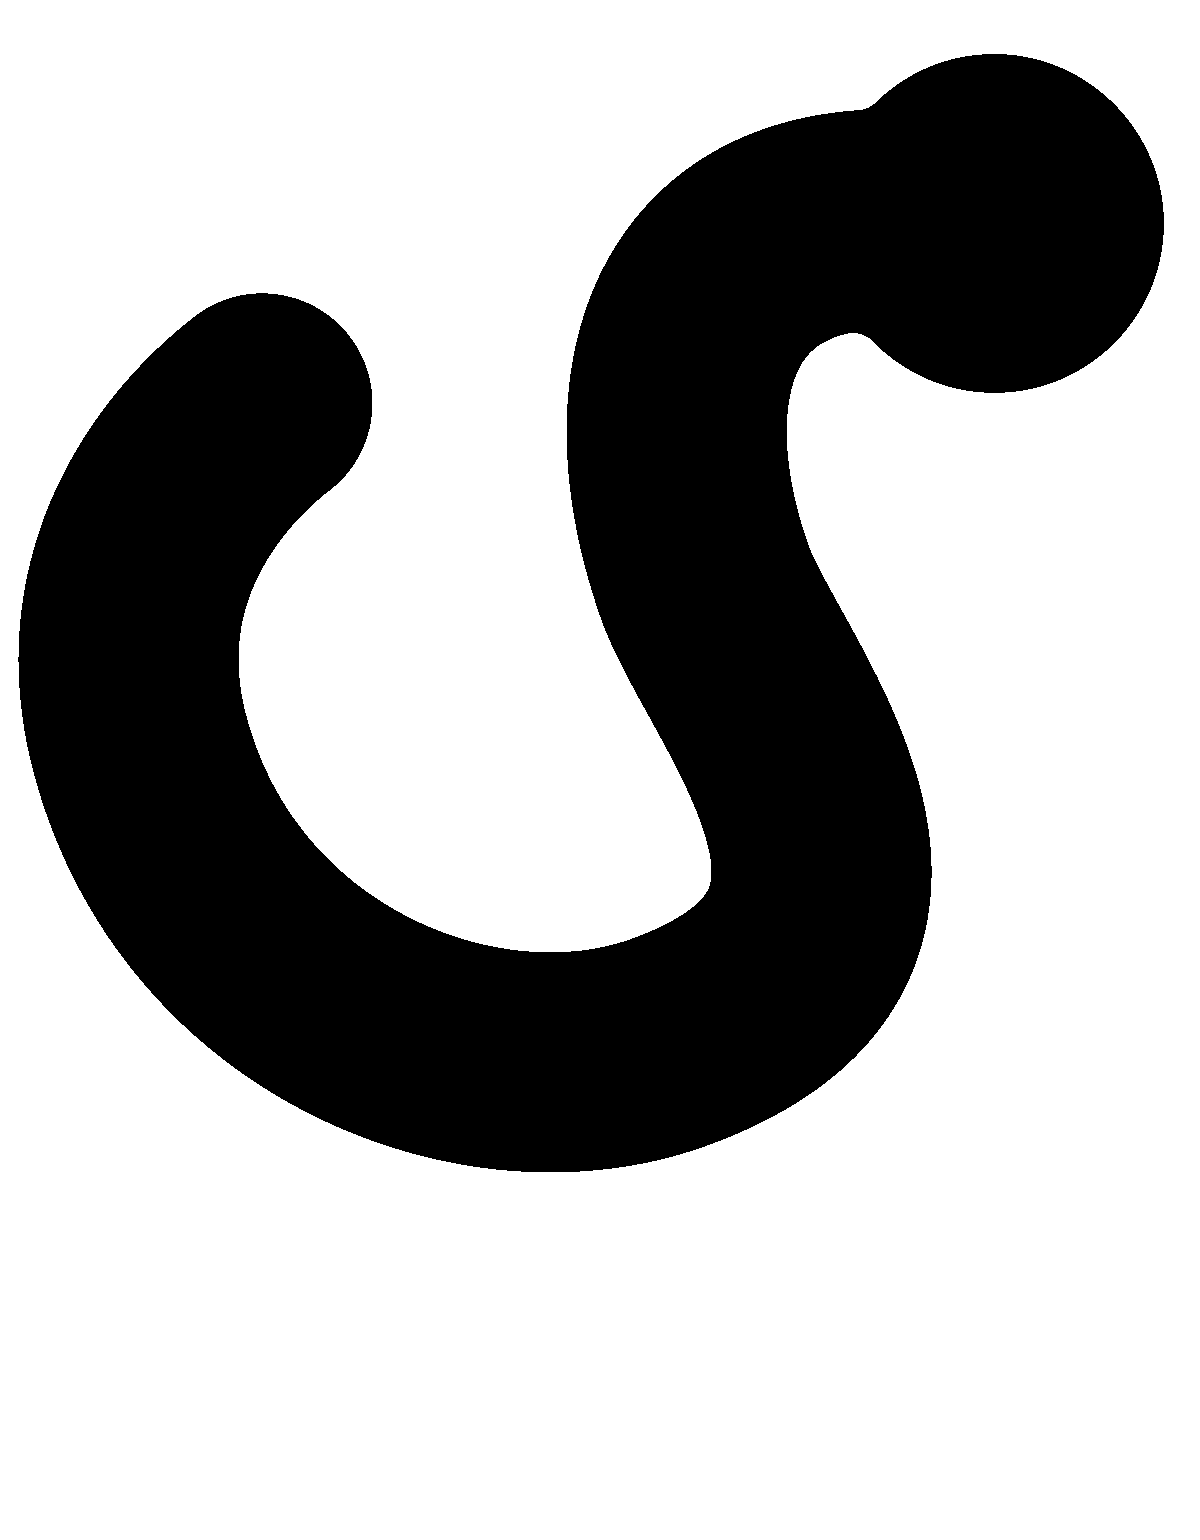
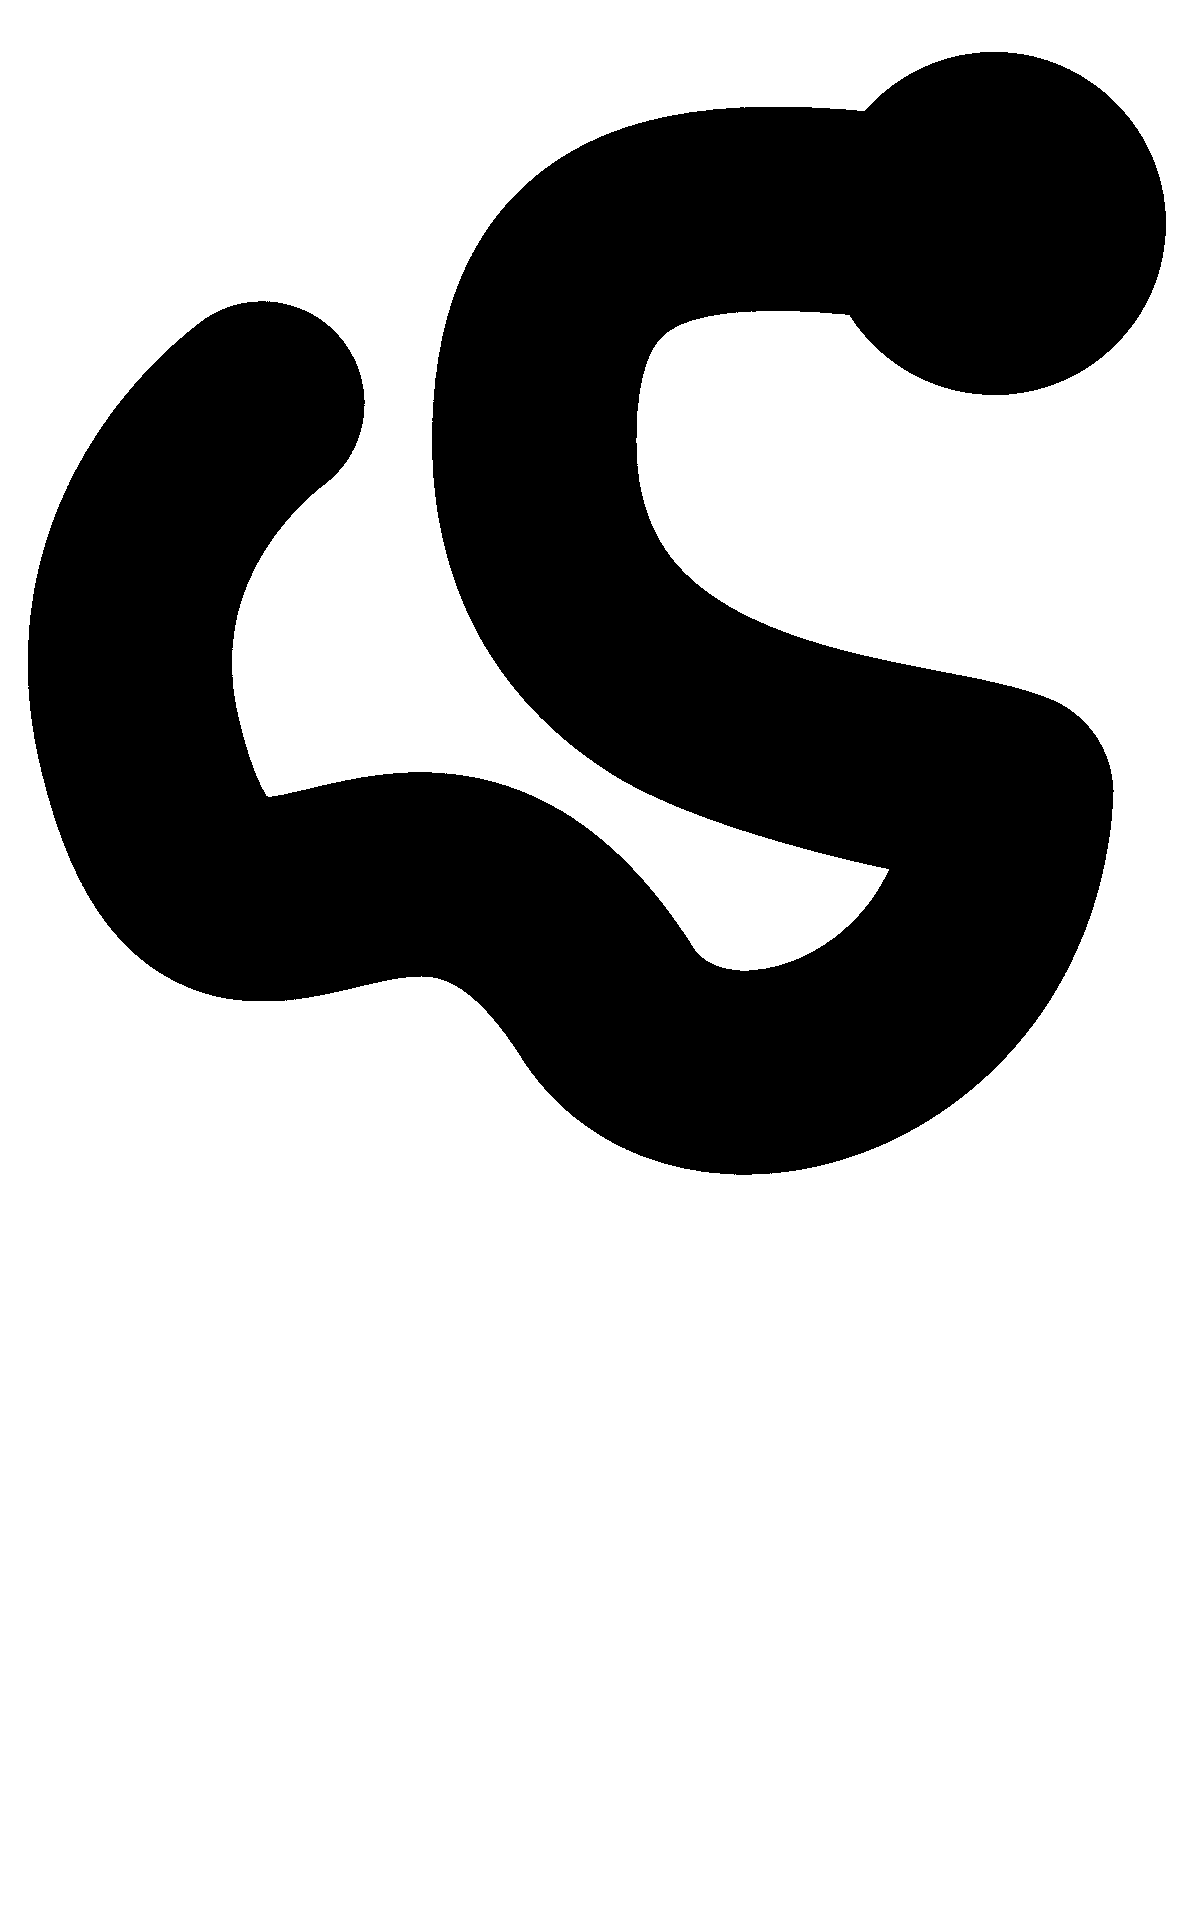
Staging password page; Operation final paths + 12 tweezers; Cluedo final art

Changed region(s): [[0.0, 0.0, 0.9867, 0.7792]]

diff --git a/games/operation/index.html b/games/operation/index.html
@@ -1,6 +1,7 @@
 <!DOCTYPE html>
 <html lang="en">
 <head>
+  <script src="../../gate.js"></script>  <!-- staging password page: remove for the client environment -->
   <!-- Google Tag Manager -->
   <script>(function(w,d,s,l,i){w[l]=w[l]||[];w[l].push({'gtm.start':
   new Date().getTime(),event:'gtm.js'});var f=d.getElementsByTagName(s)[0],
@@ -27,12 +28,6 @@
     .stack { justify-content:center; gap:16px; padding:20px 20px 24px; text-align:center; }
     .stack > .hg-btn:first-of-type { margin-top:auto; }
     .note { font-family:var(--f-body); font-weight:700; font-size:14px; line-height:20px; color:var(--dark-blue); text-align:center; }
-
-    /* Hitbox test only (CFG.TEST_PICKER) */
-    .testpick { display:flex; align-items:center; gap:6px; font-family:var(--f-body); font-weight:700; font-size:12px; color:var(--dark-blue); }
-    .testpick span { margin-right:2px; }
-    .testpick button { width:38px; height:38px; border:2px solid var(--dark-blue); border-radius:50%; background:#fff; color:var(--dark-blue); font-family:var(--f-body); font-weight:900; font-size:13px; }
-    .testpick button.on { background:var(--dark-blue); color:#fff; }
 
     /* O1 / O2 / O6 · HUD on top, the art fills the rest of the screen */
     #play { padding:15px 0 0; gap:8px; }
@@ -99,36 +94,37 @@
     // ── Paths: one art + one mask each, same size (black = path, white = wall), in art pixels.
     //    start = centre of the start blob, exit = centre of the exit blob (where the bone comes out).
     //    Play again = another path (once there is more than one). Par / slow from playtests: placeholders. ──
-    //    Hitbox test (2026-11-05): prod-01–05 go from the most forgiving to the strictest, the name is the margin set by the AD.
+    //    Final set (2026-11-11): 10 paths, 1200 × 1920. The art is taller than the path so it fills taller phones; the
+    //    path itself sits in the top ~1200 px and the bottom of the art is cropped by the screen. Names: placeholders.
     var PATHS = [
-      { name: 'Hitbox +8 pt', test: '+8', art: 'assets/paths/prod-01-art.webp', mask: 'assets/paths/prod-01-hitbox.png',
-        start: [264, 400], exit: [992, 222], par: 7000, slow: 28000 },
-      { name: 'Hitbox +6 pt', test: '+6', art: 'assets/paths/prod-02-art.webp', mask: 'assets/paths/prod-02-hitbox.png',
-        start: [168, 1020], exit: [286, 242], par: 7000, slow: 28000 },
-      { name: 'Hitbox +4 pt', test: '+4', art: 'assets/paths/prod-03-art.webp', mask: 'assets/paths/prod-03-hitbox.png',
-        start: [278, 1050], exit: [832, 242], par: 7000, slow: 28000 },
-      { name: 'Hitbox +2 pt', test: '+2', art: 'assets/paths/prod-04-art.webp', mask: 'assets/paths/prod-04-hitbox.png',
-        start: [298, 1050], exit: [852, 242], par: 7000, slow: 28000 },
-      { name: 'Hitbox +0 pt', test: '+0', art: 'assets/paths/prod-05-art.webp', mask: 'assets/paths/prod-05-hitbox.png',
-        start: [334, 1050], exit: [888, 242], par: 7000, slow: 28000 }
+      { name: 'Path 1', art: 'assets/paths/path-01-art.webp', mask: 'assets/paths/path-01-hitbox.png', start: [270, 398], exit: [992, 222], par: 7000, slow: 28000 },
+      { name: 'Path 2', art: 'assets/paths/path-02-art.webp', mask: 'assets/paths/path-02-hitbox.png', start: [164, 1024], exit: [286, 242], par: 7000, slow: 28000 },
+      { name: 'Path 3', art: 'assets/paths/path-03-art.webp', mask: 'assets/paths/path-03-hitbox.png', start: [122, 246], exit: [938, 800], par: 7000, slow: 28000 },
+      { name: 'Path 4', art: 'assets/paths/path-04-art.webp', mask: 'assets/paths/path-04-hitbox.png', start: [160, 684], exit: [898, 208], par: 7000, slow: 28000 },
+      { name: 'Path 5', art: 'assets/paths/path-05-art.webp', mask: 'assets/paths/path-05-hitbox.png', start: [358, 310], exit: [982, 974], par: 7000, slow: 28000 },
+      { name: 'Path 6', art: 'assets/paths/path-06-art.webp', mask: 'assets/paths/path-06-hitbox.png', start: [972, 1012], exit: [256, 200], par: 7000, slow: 28000 },
+      { name: 'Path 7', art: 'assets/paths/path-07-art.webp', mask: 'assets/paths/path-07-hitbox.png', start: [652, 772], exit: [272, 274], par: 7000, slow: 28000 },
+      { name: 'Path 8', art: 'assets/paths/path-08-art.webp', mask: 'assets/paths/path-08-hitbox.png', start: [896, 1064], exit: [996, 400], par: 7000, slow: 28000 },
+      { name: 'Path 9', art: 'assets/paths/path-09-art.webp', mask: 'assets/paths/path-09-hitbox.png', start: [890, 464], exit: [208, 894], par: 7000, slow: 28000 },
+      { name: 'Path 10', art: 'assets/paths/path-10-art.webp', mask: 'assets/paths/path-10-hitbox.png', start: [166, 220], exit: [956, 980], par: 7000, slow: 28000 }
     ];
-    // Tool art + mask (Operation_pince_01 / _hitbox), same pixel scale as the path art.
-    var TOOL = { art: 'assets/tool.webp', mask: 'assets/tool-hitbox.png' };
+    // Tweezers: 12 looks (Operation_paths_PROD_pince_01–12), one shared mask. A random look each turn.
+    var TOOL_ARTS = [];
+    for (var tn = 1; tn <= 12; tn++) TOOL_ARTS.push('assets/tools/tool-' + (tn < 10 ? '0' : '') + tn + '.webp');
+    var TOOL_MASK = 'assets/tools/tool-hitbox.png', toolArt = -1;
     var ART_W = 1200;            // art width = phone width at 390 px (Figma: 390 × 500.5 under the HUD)
     var CFG = {
-      FIT_H: 1400,               // art pixels that must fit in height: the tool at the lowest start, down to the end of its grip
+      FIT_H: 1430,               // art pixels that must fit in height: the tool at its lowest spot, down to the end of its grip
       EXIT_R: 70,                // bone out when its centre is this close to the exit (art px)
       GRIP_SLOP: 12,             // extra CSS px around the finger zone of the tool
       STEP: 8,                   // wall test every 8 art px along a move (no tunnelling through a wall)
       SNAP_BACK: 48,             // on a wall hit the bone jumps back at least this far along its trail (art px)
-      CTA_DELAY: 800,
-      TEST_PICKER: true          // hitbox test: path buttons on Up next. Set to false before launch.
+      CTA_DELAY: 800
     };
     var el = HG.el, clear = HG.clear, tap = HG.onTap;
 
     // ── Round state ──
     var players = [], order = [], turn = 0, results = [], pathIdx = -1, committed = false;
-    var pinned = false, switching = false;   // hitbox test: a path picked by hand stays for Play again
     // ── Turn state ──
     var phase = 'idle';   // idle | ready (O1, waiting for pick-up) | run (O2) | over
     var touches = 0, maxProg = 0, picked = false, turnStarted = false;
@@ -219,10 +215,10 @@
       var P = PATHS[pathIdx];
       artEl.src = P.art;
       document.getElementById('fill').style.backgroundImage = 'url("' + P.art + '")';
-      return Promise.all([loadImg(P.mask), tool ? null : loadImg(TOOL.mask)]).then(function (r) {
+      return Promise.all([loadImg(P.mask), tool ? null : loadImg(TOOL_MASK), loadImg(P.art)]).then(function (r) {
         wall = maskData(r[0]); artH = wall.h * ART_W / wall.w;
         if (r[1]) tool = readTool(r[1]);
-        toolEl.src = TOOL.art; toolEl.style.width = tool.w + 'px'; toolEl.style.height = tool.h + 'px';
+        toolEl.style.width = tool.w + 'px'; toolEl.style.height = tool.h + 'px';
         artEl.style.width = ART_W + 'px'; artEl.style.height = artH + 'px';
         buildDist(P);
       });
@@ -248,32 +244,13 @@
     // ── Round ──
     function newRound() {
       order = HG.shuffle(players); turn = 0; results = []; committed = false;
-      if (!pinned) {
-        var next; do { next = Math.floor(Math.random() * PATHS.length); } while (PATHS.length > 1 && next === pathIdx);
-        pathIdx = next;               // same path + bone for everyone; Play again = a new one
-      }
+      var next; do { next = Math.floor(Math.random() * PATHS.length); } while (PATHS.length > 1 && next === pathIdx);
+      pathIdx = next;                 // same path + bone for everyone; Play again = a new one
       preparePath().then(showUpNext);
     }
     function showUpNext() {
       phase = 'idle'; screen('upnext');
-      var c = document.getElementById('upnext');
-      HG.shell.upNext(c, order, turn, startTurn);
-      if (CFG.TEST_PICKER) c.insertBefore(testPicker(), c.firstChild);
-    }
-    // Hitbox test only: choose the path to try. Changes it for the rest of the round too.
-    function testPicker() {
-      var row = el('div', 'testpick');
-      row.appendChild(el('span', null, 'Hitbox test'));
-      PATHS.forEach(function (P, i) {
-        var b = el('button', i === pathIdx ? 'on' : null, P.test);
-        tap(b, function () {
-          if (switching || i === pathIdx) { pinned = true; return; }
-          switching = true; pinned = true; pathIdx = i;
-          preparePath().then(function () { switching = false; showUpNext(); });
-        });
-        row.appendChild(b);
-      });
-      return row;
+      HG.shell.upNext(document.getElementById('upnext'), order, turn, startTurn);
     }
 
     // ── O1 · Pick up the tool ──
@@ -285,6 +262,8 @@
       document.getElementById('pathname').textContent = PATHS[pathIdx].name;
       screen('play');
       layout();
+      var t; do { t = Math.floor(Math.random() * TOOL_ARTS.length); } while (t === toolArt);
+      toolArt = t; toolEl.src = TOOL_ARTS[t];         // a different tweezers look from the previous turn
       bone = { x: PATHS[pathIdx].start[0], y: PATHS[pathIdx].start[1] };
       trail = [bone];
       drawTool(); boardEl.classList.add('ready');
@@ -471,8 +450,8 @@
 
     players = HG.getPlayers();
     if (!players.length) players = ['Player 1'];
-    var preload = ['../../assets/ui/logo-operation.webp', 'assets/bg-pattern.webp', TOOL.art, TOOL.mask];
-    PATHS.forEach(function (P) { preload.push(P.art, P.mask); });
+    var preload = ['../../assets/ui/logo-operation.webp', 'assets/bg-pattern.webp', TOOL_MASK].concat(TOOL_ARTS);
+    PATHS.forEach(function (P) { preload.push(P.mask); });   // the art (≈ 100 KB each) loads with its round
     HG.shell.begin(preload, newRound);
   </script>
 </body>

diff --git a/gate.js b/gate.js
@@ -1,0 +1,48 @@
+/* Staging password page (test-havas only). Remove before the client environment:
+   delete this file, assets/ui/havas-switzerland.svg and the <script src="…gate.js"> line in each page's <head>.
+   Client-side only: it keeps casual visitors out, it is not real security (files stay reachable by direct URL). */
+(function () {
+  var KEY = 'hg_gate';
[1 lines of base64/hex data omitted]
+  try { if (localStorage.getItem(KEY) === HASH) return; } catch (e) {}
+
+  var base = document.currentScript.src.replace(/gate\.js(\?.*)?$/, '');
+  var css = document.createElement('style');
+  css.textContent =
+    'html.hg-locked, html.hg-locked body { background:#fff !important; overflow:hidden !important; }' +
+    'html.hg-locked body > :not(#hg-gate) { display:none !important; }' +
+    '#hg-gate { position:fixed; inset:0; z-index:2147483647; background:#fff; display:flex; flex-direction:column; align-items:center; justify-content:center;' +
+    '  gap:28px; padding:24px; font-family:-apple-system, BlinkMacSystemFont, "Helvetica Neue", Arial, sans-serif; color:#1a1a1a; }' +
+    '#hg-gate img { width:min(240px, 64vw); height:auto; }' +
+    '#hg-gate form { display:flex; flex-direction:column; gap:10px; width:min(280px, 100%); }' +
+    '#hg-gate input { font:inherit; font-size:16px; padding:12px 14px; border:1px solid #c8c8c8; border-radius:8px; outline:none; }' +
+    '#hg-gate input:focus { border-color:#1a1a1a; }' +
+    '#hg-gate button { font:inherit; font-size:16px; font-weight:600; padding:12px 14px; border:0; border-radius:8px; background:#1a1a1a; color:#fff; cursor:pointer; }' +
+    '#hg-gate .err { min-height:18px; font-size:13px; color:#e60000; text-align:center; }';
+  document.head.appendChild(css);
+  document.documentElement.classList.add('hg-locked');
+
+  function sha256(s) {
+    return crypto.subtle.digest('SHA-256', new TextEncoder().encode(s)).then(function (b) {
+      return Array.prototype.map.call(new Uint8Array(b), function (x) { return ('0' + x.toString(16)).slice(-2); }).join('');
+    });
+  }
+  function build() {
+    var g = document.createElement('div'); g.id = 'hg-gate';
+    g.innerHTML = '<img alt="Havas Switzerland" src="' + base + 'assets/ui/havas-switzerland.svg">' +
+      '<form><input type="password" placeholder="Password" autocomplete="current-password" aria-label="Password">' +
+      '<button type="submit">Enter</button><div class="err"></div></form>';
+    document.body.appendChild(g);
+    var input = g.querySelector('input'), err = g.querySelector('.err');
+    g.querySelector('form').addEventListener('submit', function (e) {
+      e.preventDefault();
+      sha256(input.value.trim().toLowerCase()).then(function (h) {
+        if (h !== HASH) { err.textContent = 'Wrong password'; input.select(); return; }
+        try { localStorage.setItem(KEY, HASH); } catch (x) {}
+        location.reload();   // start the page fresh, unlocked
+      });
+    });
+    input.focus();
+  }
+  if (document.body) build(); else document.addEventListener('DOMContentLoaded', build);
+})();

diff --git a/games/cluedo/index.html b/games/cluedo/index.html
@@ -1,6 +1,7 @@
 <!DOCTYPE html>
 <html lang="en">
 <head>
+  <script src="../../gate.js"></script>  <!-- staging password page: remove for the client environment -->
   <!-- Google Tag Manager -->
   <script>(function(w,d,s,l,i){w[l]=w[l]||[];w[l].push({'gtm.start':
   new Date().getTime(),event:'gtm.js'});var f=d.getElementsByTagName(s)[0],
@@ -138,8 +139,9 @@
     var CFG = { TIME_MS: 35000, PAR_MS: 8000, SLOW_MS: 35000, LOCK_MS: 2500 };   // par / slow: placeholders until playtests
 
     // ── Content: the 6 suspects of the Hasbro Cluedo toolkit, 9 rooms, 6 weapons ──
-    // Art: 2 puzzles per suspect, 3 per room, 3 per weapon, square (800 × 800 delivered), e.g. assets/puzzles/cluedo-weapon-rope-02.webp.
-    // Until the AD delivers them: placeholder scenes (assets/scenes/scene-NN.png), else a picture drawn in code.
+    // Art (2026-11-11, 2. Crea/1. Cluedo): one square picture (800 × 800) per suspect, room and weapon,
+    // e.g. assets/puzzles/cluedo-weapon-rope-01.webp. A clue played twice in a case reuses its picture.
+    // Fallbacks if a file is missing: a placeholder scene (assets/scenes/scene-NN.png), else a picture drawn in code.
     var POOL = {
       who: { n: 2, label: 'Culprit', the: 'the culprit', items: [
         { id: 'scarlett', name: 'Miss Scarlett', col: '#AF231C', art: '🌹' },
@@ -213,7 +215,7 @@
       return c.toDataURL('image/jpeg', 0.85);
     }
     function artUrl(kind, item, v) {
-      return 'assets/puzzles/cluedo-' + KIND_FILE[kind] + '-' + item.id + '-0' + v + '.webp';
+      return 'assets/puzzles/cluedo-' + KIND_FILE[kind] + '-' + item.id + '-01.webp';   // one picture per item (v unused)
     }
     // Square crop (the puzzle is 3 × 3). Portrait / landscape art is cut top / middle / bottom
     // by framing v, so one picture already gives 2–3 different puzzles.

diff --git a/roll-dice/index.html b/roll-dice/index.html
@@ -1,6 +1,7 @@
 <!DOCTYPE html>
 <html lang="en">
 <head>
+  <script src="../gate.js"></script>  <!-- staging password page: remove for the client environment -->
   <script>
     // Served at /roll-dice: without the trailing slash, relative asset paths would resolve from the site root.
     if (/\/roll-dice$/.test(location.pathname)) location.replace(location.pathname + '/' + location.search + location.hash);

diff --git a/games/connect4/index.html b/games/connect4/index.html
@@ -1,6 +1,7 @@
 <!DOCTYPE html>
 <html lang="en">
 <head>
+  <script src="../../gate.js"></script>  <!-- staging password page: remove for the client environment -->
   <!-- Google Tag Manager -->
   <script>(function(w,d,s,l,i){w[l]=w[l]||[];w[l].push({'gtm.start':
   new Date().getTime(),event:'gtm.js'});var f=d.getElementsByTagName(s)[0],

diff --git a/games/twister/index.html b/games/twister/index.html
@@ -1,6 +1,7 @@
 <!DOCTYPE html>
 <html lang="en">
 <head>
+  <script src="../../gate.js"></script>  <!-- staging password page: remove for the client environment -->
   <!-- Google Tag Manager -->
   <script>(function(w,d,s,l,i){w[l]=w[l]||[];w[l].push({'gtm.start':
   new Date().getTime(),event:'gtm.js'});var f=d.getElementsByTagName(s)[0],

diff --git a/index.html b/index.html
@@ -1,6 +1,7 @@
 <!DOCTYPE html>
 <html lang="en">
 <head>
+  <script src="gate.js"></script>  <!-- staging password page: remove for the client environment -->
   <!-- Google Tag Manager -->
   <script>(function(w,d,s,l,i){w[l]=w[l]||[];w[l].push({'gtm.start':
   new Date().getTime(),event:'gtm.js'});var f=d.getElementsByTagName(s)[0],
